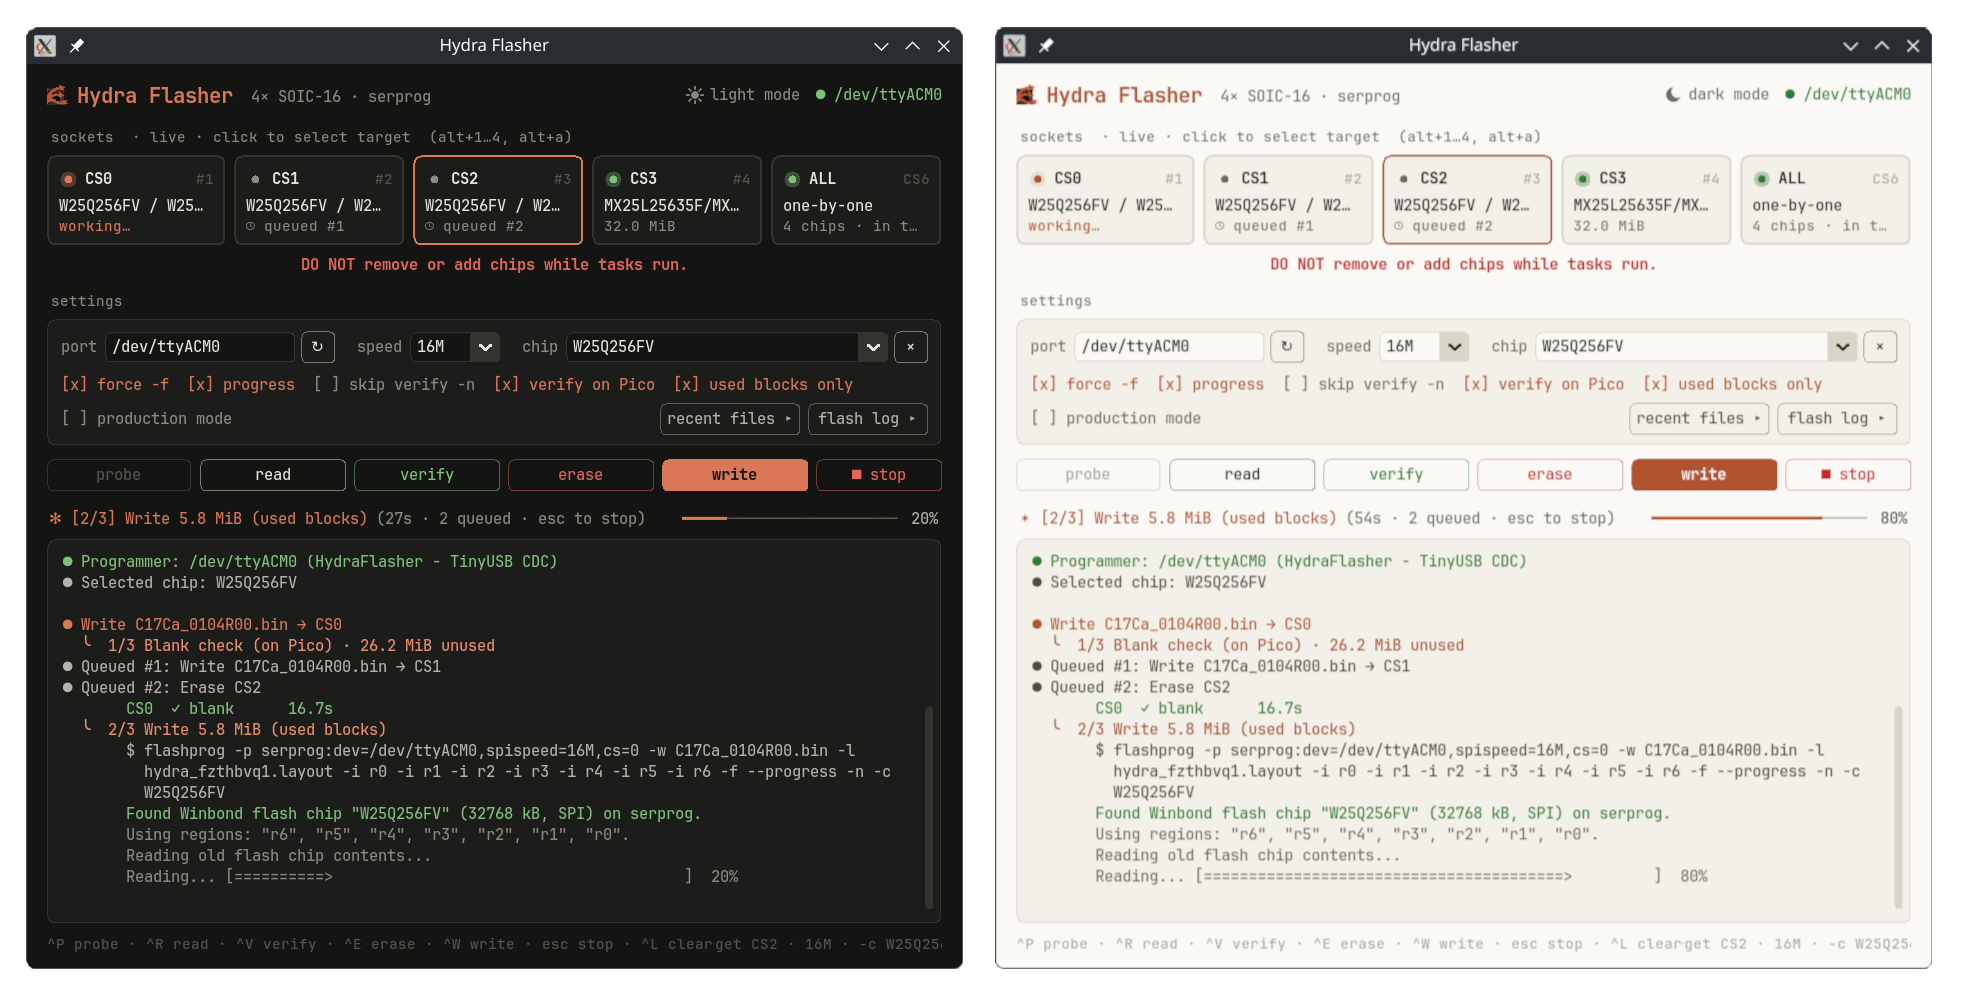
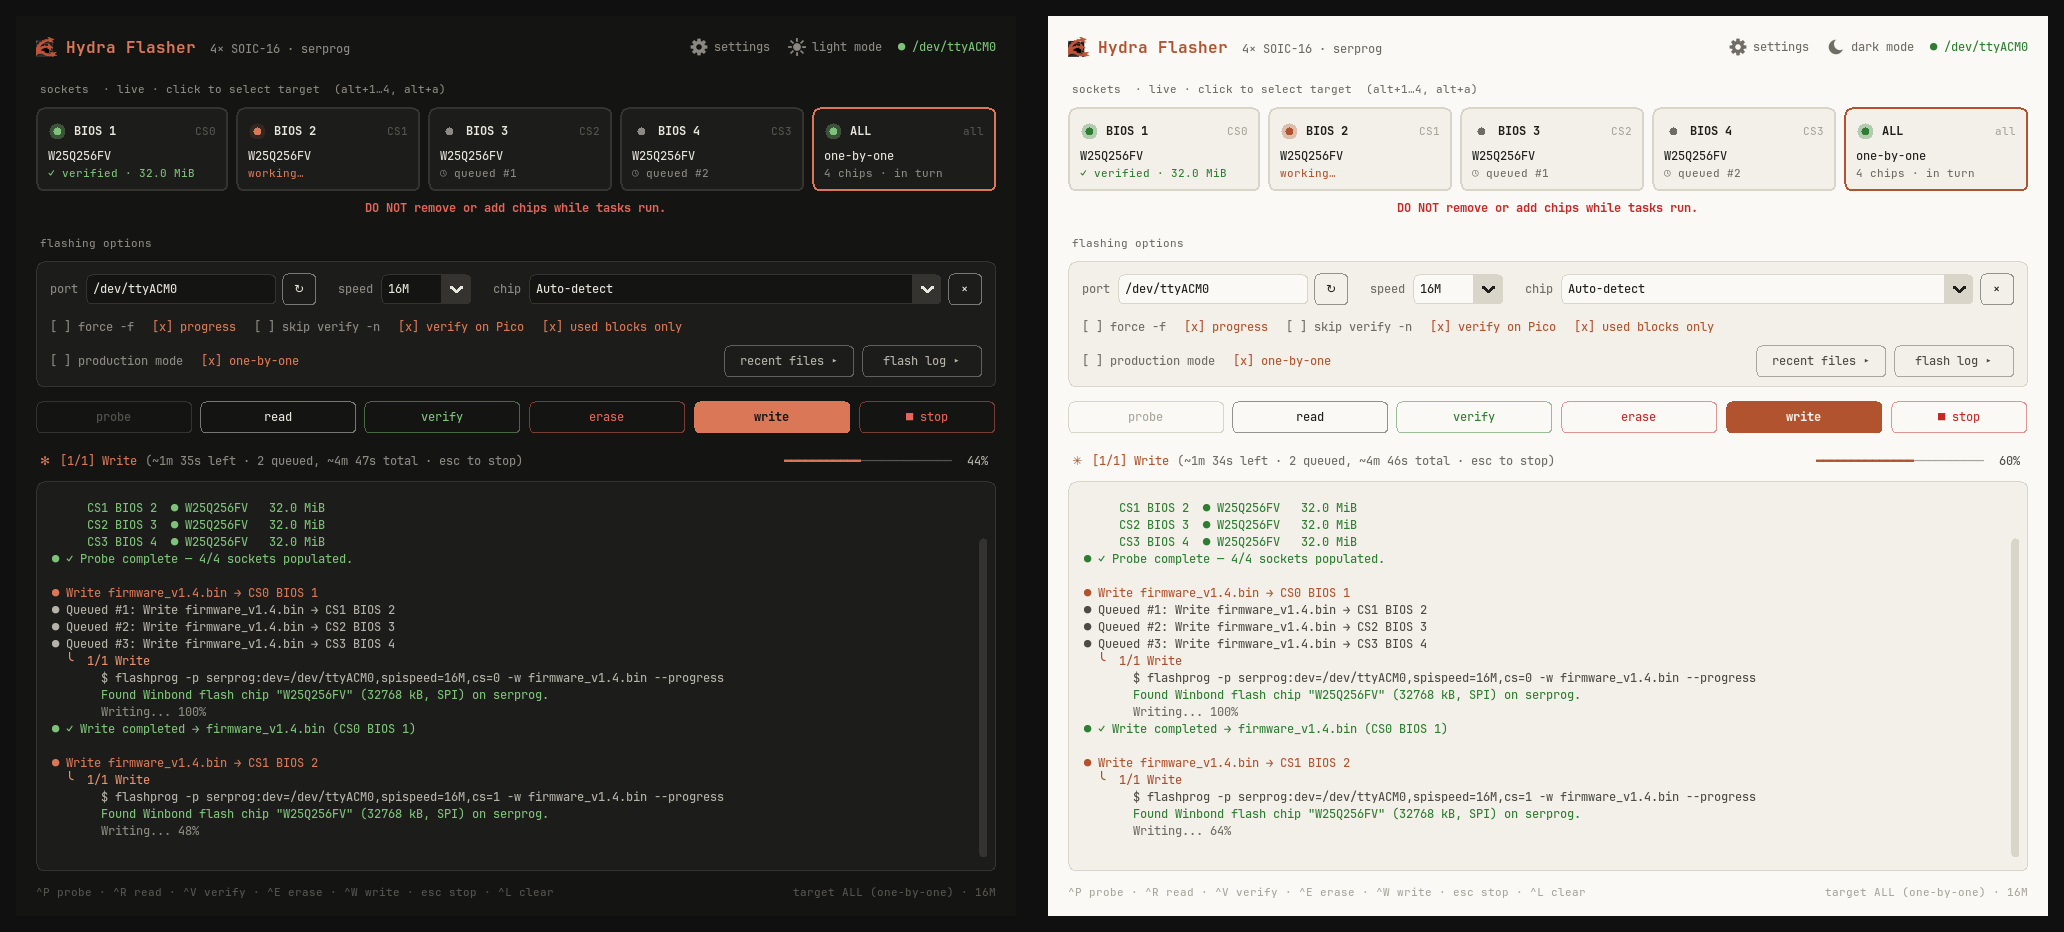
README screenshot: one image to four named chips, dark and light mode side by side

Changed region(s): [[0.0, 0.0, 1.0, 1.0], [0.2476, 0.5601, 0.2785, 0.5912], [0.1238, 0.28, 0.1547, 0.3112]]

diff --git a/tools/run_readme_shot.py b/tools/run_readme_shot.py
@@ -99,7 +99,24 @@ def s3():
         app.after(50, s3)
         return
     app.update()
-    subprocess.run(["import", "-window", str(H.x11_toplevel(app.winfo_id())), shot])
+    capture(os.path.join(work, "dark.png"))
+    app._toggle_theme()  # the same moment in light mode, shown side by side
+    app.after(400, s4)
+
+
+def capture(path):
+    # The window manager's frame: the window with its title bar
+    subprocess.run(["import", "-window", app.wm_frame(), path])
+
+
+def s4():
+    app.update()
+    capture(os.path.join(work, "light.png"))
+    subprocess.run([
+        "magick", "-background", "#101010",
+        os.path.join(work, "dark.png"), os.path.join(work, "light.png"),
+        "-bordercolor", "#101010", "-border", "16", "+append", shot,
+    ])
     app._queue.clear()
     app._abort_requested = True
     if app._proc:

diff --git a/CLAUDE.md b/CLAUDE.md
@@ -24,7 +24,7 @@ cd firmware && ./build.sh flash     # build + copy to a Pico in BOOTSEL; reboots
 tests/run_all.sh                    # GUI tests with a fake Pico and fake flashprog, on a hidden display
 VISIBLE=1 tests/run_all.sh          # same, but the windows open on your desktop
 tests/run_all.sh run_onebyone.py    # a single test
-python3 tools/run_readme_shot.py . screenshot.png   # regenerate the README screenshot
+python3 tools/run_readme_shot.py . screenshot.png   # regenerate the README screenshot (dark + light side by side; hidden display, ImageMagick)
 python3 tools/draw_pinout.py firmware/pinout.png    # regenerate the pinout drawing
 python3 tools/make_icons.py                         # icons from logo-mark.png (.ico, .png, APP_ICON_PNG)
 python packaging/build.py                           # app packages for this OS into release/ (needs a display)
